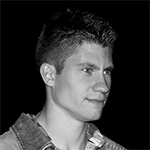
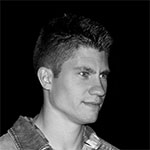
optimized profile pic; minimized javascript; removed dependency on jquery to set height of home section

diff --git a/styles/styles.css b/styles/styles.css
@@ -1,1 +1,1 @@
-/*! normalize.css v3.0.1 | MIT License | git.io/normalize */html{font-family:sans-serif;-ms-text-size-adjust:100%;-webkit-text-size-adjust:100%}body{margin:0}article,aside,details,figcaption,figure,footer,header,hgroup,main,nav,section,summary{display:block}audio,canvas,progress,video{display:inline-block;vertical-align:baseline}audio:not([controls]){display:none;height:0}[hidden],template{display:none}a{background:transparent}a:active,a:hover{outline:0}abbr[title]{border-bottom:1px dotted}b,strong{font-weight:bold}dfn{font-style:italic}h1{font-size:2em;margin:.67em 0}mark{background:#ff0;color:#000}small{font-size:80%}sub,sup{font-size:75%;line-height:0;position:relative;vertical-align:baseline}sup{top:-0.5em}sub{bottom:-0.25em}img{border:0}svg:not(:root){overflow:hidden}figure{margin:1em 40px}hr{-moz-box-sizing:content-box;box-sizing:content-box;height:0}pre{overflow:auto}code,kbd,pre,samp{font-family:monospace,monospace;font-size:1em}button,input,optgroup,select,textarea{color:inherit;font:inherit;margin:0}button{overflow:visible}button,select{text-transform:none}button,html input[type="button"]{-webkit-appearance:button;cursor:pointer}button[disabled],html input[disabled]{cursor:default}button input::-moz-focus-inner{border:0;padding:0}input{line-height:normal}input[type="reset"],input[type="submit"]{-webkit-appearance:button;cursor:pointer}input[type="checkbox"],input[type="radio"]{box-sizing:border-box;padding:0}input[type="number"]::-webkit-inner-spin-button,input[type="number"]::-webkit-outer-spin-button{height:auto}input[type="search"]{-webkit-appearance:textfield;-moz-box-sizing:content-box;-webkit-box-sizing:content-box;box-sizing:content-box}input[type="search"]::-webkit-search-cancel-button,input[type="search"]::-webkit-search-decoration{-webkit-appearance:none}fieldset{border:1px solid #c0c0c0;margin:0 2px;padding:.35em .625em .75em}legend{border:0;padding:0}textarea{overflow:auto}optgroup{font-weight:bold}table{border-collapse:collapse;border-spacing:0}td,th{padding:0}html{font-family:'Roboto','Helvetica Neue','Helvetica','Arial','sans-serif';font-size:10px;font-weight:100;color:#FFF}html a{text-decoration:none;color:inherit}h1,h2,h3,h4,h5,h6,p{font-weight:100}h1{font-size:48px}@media only screen and (max-width: 639px),only screen and (max-width: 1023px){h1{font-size:24px}}h2{font-size:40px}@media only screen and (max-width: 639px),only screen and (max-width: 1023px){h2{font-size:20px}}h3{font-size:31px}@media only screen and (max-width: 639px),only screen and (max-width: 1023px){h3{font-size:19px}}h4{font-size:25px}@media only screen and (max-width: 639px),only screen and (max-width: 1023px){h4{font-size:18px}}h5{font-size:20px}@media only screen and (max-width: 639px),only screen and (max-width: 1023px){h5{font-size:17px}}h6{font-size:16px}.container{padding:0 10%}@media only screen and (max-width: 639px){.container{padding:0 15px}}.main-text{width:57.6rem;font-size:1.6rem;text-align:center;line-height:2.5rem;margin:auto}@media only screen and (max-width: 639px){.main-text{width:100%}}.flat-button{background:none;outline:none;border:none;color:#448AFF;font-weight:700;font-size:1.4rem;padding:.75rem}.flat-button:hover{background:rgba(0,0,0,0.1)}.raised-button{background:#448AFF;color:#FFF;border:none;outline:none;border-radius:2px;height:3.6rem;font-size:1.4rem;padding:0 1.6rem;font-weight:500;line-height:3.6rem;box-shadow:0 2px 2px 0 rgba(0,0,0,0.14),0 3px 1px -2px rgba(0,0,0,0.2),0 1px 5px 0 rgba(0,0,0,0.12)}.underline{text-decoration:underline}.end{height:4.5rem}.md-modal{position:fixed;top:50%;left:50%;width:50%;max-width:60rem;min-width:35rem;height:auto;z-index:10;visibility:hidden;backface-visibility:hidden;transform:translateX(-50%) translateY(-50%);background:#FFF;color:#333;border-radius:2px}@media only screen and (max-width: 639px){.md-modal{width:100%}}.md-show{visibility:visible}.md-overlay{position:fixed;width:100%;height:100%;visibility:hidden;top:0;left:0;z-index:9;opacity:0;background:rgba(0,0,0,0.6);transition:all .3s}.md-show~.md-overlay{opacity:1;visibility:visible}.md-close{outline:none;border:none;background:none;position:absolute;right:0;bottom:0}.md-trigger{cursor:pointer}#main-menu{position:fixed;width:100%;margin:0 0 3rem;z-index:5;padding:1rem 0 0;background:rgba(0,0,0,0.8)}@media only screen and (max-width: 639px){#main-menu{padding:1rem 0}}#main-menu ul{list-style:none;display:flex;font-size:1.4rem;margin-top:0;padding:0}@media only screen and (max-width: 639px){#main-menu ul{padding:0;transition:all .25s;display:none}}#main-menu ul li{display:inline;margin:auto}@media only screen and (max-width: 639px){#main-menu ul li{display:block;line-height:3rem;background:rgba(224,224,224,0.2)}#main-menu ul li:not(:first-child){border-top:1px rgba(182,182,182,0.2) solid}}#main-menu ul li a{border-bottom:2px solid transparent;padding:.5rem;transition:.25s}#main-menu ul li a:hover,#main-menu ul li a.active{border-color:#FFF}@media only screen and (max-width: 639px){#main-menu ul li a{border:none}}@media only screen and (max-width: 639px){#main-menu.open ul{display:block}}#main-menu #menu-icon{display:none}@media only screen and (max-width: 639px){#main-menu #menu-icon{display:inline-block}}#home{width:100%;min-height:50rem;background-size:cover;background:linear-gradient(rgba(0,0,0,0.5), rgba(0,0,0,0.5)),url('union_station_desktop.jpg') center bottom no-repeat;padding:1rem 0;display:flex;justify-content:center;flex-direction:column}@media only screen and (max-width: 1023px){#home{background:linear-gradient(rgba(0,0,0,0.5), rgba(0,0,0,0.5)),url('union_station_tablet.jpg') center bottom no-repeat;background-size:cover}}@media only screen and (max-width: 639px){#home{background:linear-gradient(rgba(0,0,0,0.5), rgba(0,0,0,0.5)),url('union_station_mobile.jpg') center bottom no-repeat;background-size:cover}}#home .title{text-align:center;margin:3rem 0 3rem}#home .profile-pic{width:150px;height:150px;border-radius:75px;background:url('profile_pic.jpg') no-repeat;background-size:contain;margin:auto}#home .social{width:15rem;margin:auto;display:flex}#home .social .social-icon{display:inline-block;margin:1rem auto}#home .social .social-icon .zmdi-twitter:hover{color:#00ACED}#home .social .social-icon .zmdi-linkedin:hover{color:#0077B5}#home .social .social-icon .zmdi-github:hover{color:#4078C0}#home .introduction{margin:3rem auto 0}#projects{width:100%;min-height:50rem;background:linear-gradient(rgba(0,0,0,0.5), rgba(0,0,0,0.5)),url('muskoka_lake_desktop.jpg') center top no-repeat;background-size:cover}@media only screen and (max-width: 1023px){#projects{background:linear-gradient(rgba(0,0,0,0.5), rgba(0,0,0,0.5)),url('muskoka_lake_tablet.jpg') center top no-repeat;background-size:cover}}@media only screen and (max-width: 639px){#projects{background:linear-gradient(rgba(0,0,0,0.5), rgba(0,0,0,0.5)),url('muskoka_lake_mobile.jpg') center top no-repeat;background-size:cover}}#projects .title{text-align:center;padding:4.5rem 0 3rem}#projects .title h2{margin:0}#projects .project-container{display:flex;flex-wrap:wrap;padding-bottom:4.5rem}#projects .project-container .project-card{background:#FFF;width:35rem;height:25rem;border-radius:2px;display:inline-block;margin:2rem auto}#projects .project-container .project-card:hover{box-shadow:0 0 3px #C8C8C8}#projects .project-container .project-card .image{height:18rem;width:100%;background-size:cover;position:relative}#projects .project-container .project-card .image .name{position:absolute;bottom:0;margin:1rem}#projects .project-container .project-card .description,#projects .project-container .project-card .technologies{font-weight:300;font-size:1.4rem;color:#666;display:flex;justify-content:center;flex-direction:column;padding-left:1rem}#projects .project-container .project-card .description span,#projects .project-container .project-card .technologies span{display:inline-block}#projects .project-container .project-card .description{height:4rem;border-bottom:1px solid rgba(0,0,0,0.1);box-sizing:border-box}#projects .project-container .project-card .technologies{height:3rem}#projects .project-container .project-card#hooli .image{background:linear-gradient(rgba(0,0,0,0.35), rgba(0,0,0,0.35)),url('projects/hooli_600_310.jpg') center no-repeat}#projects .project-container .project-card#fulkerson .image{background:linear-gradient(rgba(0,0,0,0.35), rgba(0,0,0,0.35)),url('projects/fulkerson_600_310.jpg') no-repeat;background-size:cover}#projects .project-container .project-card#guidebook .image{background:linear-gradient(rgba(0,0,0,0.35), rgba(0,0,0,0.35)),url('projects/guidebook_600_310.jpg') top right no-repeat}#projects .project-container .project-card#iris .image{background:linear-gradient(rgba(0,0,0,0.35), rgba(0,0,0,0.35)),url('projects/iris_600_310.jpg') center no-repeat}#projects .project-container .project-card#heit .image{background:linear-gradient(rgba(0,0,0,0.35), rgba(0,0,0,0.35)),url('projects/heit_600_310.jpg') center no-repeat}#projects .md-modal .content{max-height:45rem;overflow-y:auto}@media only screen and (max-width: 639px){#projects .md-modal .content{max-height:30rem}}#projects .md-modal .image{position:relative;height:15rem}#projects .md-modal .image .name{position:absolute;bottom:0;color:#FFF;margin:1rem}#projects .md-modal .description{padding:1rem;font-size:1.4rem}#projects .md-modal .description p{font-weight:400}#projects .md-modal .description p a{color:#448AFF}#projects .md-modal .actions{text-align:center;border-top:1px solid rgba(0,0,0,0.1);padding:1rem 0}#projects #fulkerson-modal .image{background:linear-gradient(rgba(0,0,0,0.5), rgba(0,0,0,0.5)),url('projects/fulkerson_600_310.jpg') center no-repeat}#projects #guidebook-modal .image{background:linear-gradient(rgba(0,0,0,0.5), rgba(0,0,0,0.5)),url('projects/guidebook_600_310.jpg') top right no-repeat}#projects #iris-modal .image{background:linear-gradient(rgba(0,0,0,0.5), rgba(0,0,0,0.5)),url('projects/iris_600_310.jpg') center no-repeat}#projects #hooli-modal .image{background:linear-gradient(rgba(0,0,0,0.5), rgba(0,0,0,0.5)),url('projects/hooli_600_310.jpg') center no-repeat}#projects #heit-modal .image{background:linear-gradient(rgba(0,0,0,0.5), rgba(0,0,0,0.5)),url('projects/heit_600_310.jpg') top center no-repeat}#skills-contact{background:linear-gradient(rgba(0,0,0,0.5), rgba(0,0,0,0.5)),url('paracas_bench_desktop.jpg') center no-repeat;background-size:cover}@media only screen and (max-width: 1023px){#skills-contact{background:linear-gradient(rgba(0,0,0,0.5), rgba(0,0,0,0.5)),url('paracas_bench_tablet.jpg') center no-repeat;background-size:cover}}@media only screen and (max-width: 639px){#skills-contact{background:linear-gradient(rgba(0,0,0,0.5), rgba(0,0,0,0.5)),url('paracas_bench_mobile.jpg') center no-repeat;background-size:cover}}#skills{width:100%;min-height:50rem}#skills .title{text-align:center;padding:4.5rem 0 3rem}#skills .title h2{margin:0}#skills .skills-border{border-bottom:1px solid #FFF}#skills .resume{text-align:center;padding:3rem 0}#skills .resume .flat-button{font-size:1.8rem;color:#FFF}#contact{width:100%}#contact .title{text-align:center;padding:3rem 0}#contact .title h2{margin:0}
+/*! normalize.css v3.0.1 | MIT License | git.io/normalize */html{font-family:sans-serif;-ms-text-size-adjust:100%;-webkit-text-size-adjust:100%}body{margin:0}article,aside,details,figcaption,figure,footer,header,hgroup,main,nav,section,summary{display:block}audio,canvas,progress,video{display:inline-block;vertical-align:baseline}audio:not([controls]){display:none;height:0}[hidden],template{display:none}a{background:transparent}a:active,a:hover{outline:0}abbr[title]{border-bottom:1px dotted}b,strong{font-weight:bold}dfn{font-style:italic}h1{font-size:2em;margin:.67em 0}mark{background:#ff0;color:#000}small{font-size:80%}sub,sup{font-size:75%;line-height:0;position:relative;vertical-align:baseline}sup{top:-0.5em}sub{bottom:-0.25em}img{border:0}svg:not(:root){overflow:hidden}figure{margin:1em 40px}hr{-moz-box-sizing:content-box;box-sizing:content-box;height:0}pre{overflow:auto}code,kbd,pre,samp{font-family:monospace,monospace;font-size:1em}button,input,optgroup,select,textarea{color:inherit;font:inherit;margin:0}button{overflow:visible}button,select{text-transform:none}button,html input[type="button"]{-webkit-appearance:button;cursor:pointer}button[disabled],html input[disabled]{cursor:default}button input::-moz-focus-inner{border:0;padding:0}input{line-height:normal}input[type="reset"],input[type="submit"]{-webkit-appearance:button;cursor:pointer}input[type="checkbox"],input[type="radio"]{box-sizing:border-box;padding:0}input[type="number"]::-webkit-inner-spin-button,input[type="number"]::-webkit-outer-spin-button{height:auto}input[type="search"]{-webkit-appearance:textfield;-moz-box-sizing:content-box;-webkit-box-sizing:content-box;box-sizing:content-box}input[type="search"]::-webkit-search-cancel-button,input[type="search"]::-webkit-search-decoration{-webkit-appearance:none}fieldset{border:1px solid #c0c0c0;margin:0 2px;padding:.35em .625em .75em}legend{border:0;padding:0}textarea{overflow:auto}optgroup{font-weight:bold}table{border-collapse:collapse;border-spacing:0}td,th{padding:0}html{font-family:'Roboto','Helvetica Neue','Helvetica','Arial','sans-serif';font-size:10px;font-weight:100;color:#FFF}html a{text-decoration:none;color:inherit}h1,h2,h3,h4,h5,h6,p{font-weight:100}h1{font-size:48px}@media only screen and (max-width: 639px),only screen and (max-width: 1023px){h1{font-size:24px}}h2{font-size:40px}@media only screen and (max-width: 639px),only screen and (max-width: 1023px){h2{font-size:20px}}h3{font-size:31px}@media only screen and (max-width: 639px),only screen and (max-width: 1023px){h3{font-size:19px}}h4{font-size:25px}@media only screen and (max-width: 639px),only screen and (max-width: 1023px){h4{font-size:18px}}h5{font-size:20px}@media only screen and (max-width: 639px),only screen and (max-width: 1023px){h5{font-size:17px}}h6{font-size:16px}.container{padding:0 10%}@media only screen and (max-width: 639px){.container{padding:0 15px}}.main-text{width:57.6rem;font-size:1.6rem;text-align:center;line-height:2.5rem;margin:auto}@media only screen and (max-width: 639px){.main-text{width:100%}}.flat-button{background:none;outline:none;border:none;color:#448AFF;font-weight:700;font-size:1.4rem;padding:.75rem}.flat-button:hover{background:rgba(0,0,0,0.1)}.raised-button{background:#448AFF;color:#FFF;border:none;outline:none;border-radius:2px;height:3.6rem;font-size:1.4rem;padding:0 1.6rem;font-weight:500;line-height:3.6rem;box-shadow:0 2px 2px 0 rgba(0,0,0,0.14),0 3px 1px -2px rgba(0,0,0,0.2),0 1px 5px 0 rgba(0,0,0,0.12)}.underline{text-decoration:underline}.end{height:4.5rem}.md-modal{position:fixed;top:50%;left:50%;width:50%;max-width:60rem;min-width:35rem;height:auto;z-index:10;visibility:hidden;backface-visibility:hidden;transform:translateX(-50%) translateY(-50%);background:#FFF;color:#333;border-radius:2px}@media only screen and (max-width: 639px){.md-modal{width:100%}}.md-show{visibility:visible}.md-overlay{position:fixed;width:100%;height:100%;visibility:hidden;top:0;left:0;z-index:9;opacity:0;background:rgba(0,0,0,0.6);transition:all .3s}.md-show~.md-overlay{opacity:1;visibility:visible}.md-close{outline:none;border:none;background:none;position:absolute;right:0;bottom:0}.md-trigger{cursor:pointer}#main-menu{position:fixed;width:100%;margin:0 0 3rem;z-index:5;padding:1rem 0 0;background:rgba(0,0,0,0.8)}@media only screen and (max-width: 639px){#main-menu{padding:1rem 0}}#main-menu ul{list-style:none;display:flex;font-size:1.4rem;margin-top:0;padding:0}@media only screen and (max-width: 639px){#main-menu ul{padding:0;transition:all .25s;display:none}}#main-menu ul li{display:inline;margin:auto}@media only screen and (max-width: 639px){#main-menu ul li{display:block;line-height:3rem;background:rgba(224,224,224,0.2)}#main-menu ul li:not(:first-child){border-top:1px rgba(182,182,182,0.2) solid}}#main-menu ul li a{border-bottom:2px solid transparent;padding:.5rem;transition:.25s}#main-menu ul li a:hover,#main-menu ul li a.active{border-color:#FFF}@media only screen and (max-width: 639px){#main-menu ul li a{border:none}}@media only screen and (max-width: 639px){#main-menu.open ul{display:block}}#main-menu #menu-icon{display:none}@media only screen and (max-width: 639px){#main-menu #menu-icon{display:inline-block}}#home{width:100%;background-size:cover;background:linear-gradient(rgba(0,0,0,0.5), rgba(0,0,0,0.5)),url('union_station_desktop.jpg') center bottom no-repeat;padding:1rem 0;display:flex;justify-content:center;flex-direction:column}@media only screen and (max-width: 1023px){#home{background:linear-gradient(rgba(0,0,0,0.5), rgba(0,0,0,0.5)),url('union_station_tablet.jpg') center bottom no-repeat;background-size:cover}}@media only screen and (max-width: 639px){#home{background:linear-gradient(rgba(0,0,0,0.5), rgba(0,0,0,0.5)),url('union_station_mobile.jpg') center bottom no-repeat;background-size:cover}}#home .title{text-align:center;margin:3rem 0 3rem}#home .profile-pic{width:150px;height:150px;border-radius:75px;background:url('profile_pic.jpg') no-repeat;background-size:contain;margin:auto}#home .social{width:15rem;margin:auto;display:flex}#home .social .social-icon{display:inline-block;margin:1rem auto}#home .social .social-icon .zmdi-twitter:hover{color:#00ACED}#home .social .social-icon .zmdi-linkedin:hover{color:#0077B5}#home .social .social-icon .zmdi-github:hover{color:#4078C0}#home .introduction{margin:3rem auto 0}#projects{width:100%;min-height:50rem;background:linear-gradient(rgba(0,0,0,0.5), rgba(0,0,0,0.5)),url('muskoka_lake_desktop.jpg') center top no-repeat;background-size:cover}@media only screen and (max-width: 1023px){#projects{background:linear-gradient(rgba(0,0,0,0.5), rgba(0,0,0,0.5)),url('muskoka_lake_tablet.jpg') center top no-repeat;background-size:cover}}@media only screen and (max-width: 639px){#projects{background:linear-gradient(rgba(0,0,0,0.5), rgba(0,0,0,0.5)),url('muskoka_lake_mobile.jpg') center top no-repeat;background-size:cover}}#projects .title{text-align:center;padding:4.5rem 0 3rem}#projects .title h2{margin:0}#projects .project-container{display:flex;flex-wrap:wrap;padding-bottom:4.5rem}#projects .project-container .project-card{background:#FFF;width:35rem;height:25rem;border-radius:2px;display:inline-block;margin:2rem auto}#projects .project-container .project-card:hover{box-shadow:0 0 3px #C8C8C8}#projects .project-container .project-card .image{height:18rem;width:100%;background-size:cover;position:relative}#projects .project-container .project-card .image .name{position:absolute;bottom:0;margin:1rem}#projects .project-container .project-card .description,#projects .project-container .project-card .technologies{font-weight:300;font-size:1.4rem;color:#666;display:flex;justify-content:center;flex-direction:column;padding-left:1rem}#projects .project-container .project-card .description span,#projects .project-container .project-card .technologies span{display:inline-block}#projects .project-container .project-card .description{height:4rem;border-bottom:1px solid rgba(0,0,0,0.1);box-sizing:border-box}#projects .project-container .project-card .technologies{height:3rem}#projects .project-container .project-card#hooli .image{background:linear-gradient(rgba(0,0,0,0.35), rgba(0,0,0,0.35)),url('projects/hooli_600_310.jpg') center no-repeat}#projects .project-container .project-card#fulkerson .image{background:linear-gradient(rgba(0,0,0,0.35), rgba(0,0,0,0.35)),url('projects/fulkerson_600_310.jpg') no-repeat;background-size:cover}#projects .project-container .project-card#guidebook .image{background:linear-gradient(rgba(0,0,0,0.35), rgba(0,0,0,0.35)),url('projects/guidebook_600_310.jpg') top right no-repeat}#projects .project-container .project-card#iris .image{background:linear-gradient(rgba(0,0,0,0.35), rgba(0,0,0,0.35)),url('projects/iris_600_310.jpg') center no-repeat}#projects .project-container .project-card#heit .image{background:linear-gradient(rgba(0,0,0,0.35), rgba(0,0,0,0.35)),url('projects/heit_600_310.jpg') center no-repeat}#projects .md-modal .content{max-height:45rem;overflow-y:auto}@media only screen and (max-width: 639px){#projects .md-modal .content{max-height:30rem}}#projects .md-modal .image{position:relative;height:15rem}#projects .md-modal .image .name{position:absolute;bottom:0;color:#FFF;margin:1rem}#projects .md-modal .description{padding:1rem;font-size:1.4rem}#projects .md-modal .description p{font-weight:400}#projects .md-modal .description p a{color:#448AFF}#projects .md-modal .actions{text-align:center;border-top:1px solid rgba(0,0,0,0.1);padding:1rem 0}#projects #fulkerson-modal .image{background:linear-gradient(rgba(0,0,0,0.5), rgba(0,0,0,0.5)),url('projects/fulkerson_600_310.jpg') center no-repeat}#projects #guidebook-modal .image{background:linear-gradient(rgba(0,0,0,0.5), rgba(0,0,0,0.5)),url('projects/guidebook_600_310.jpg') top right no-repeat}#projects #iris-modal .image{background:linear-gradient(rgba(0,0,0,0.5), rgba(0,0,0,0.5)),url('projects/iris_600_310.jpg') center no-repeat}#projects #hooli-modal .image{background:linear-gradient(rgba(0,0,0,0.5), rgba(0,0,0,0.5)),url('projects/hooli_600_310.jpg') center no-repeat}#projects #heit-modal .image{background:linear-gradient(rgba(0,0,0,0.5), rgba(0,0,0,0.5)),url('projects/heit_600_310.jpg') top center no-repeat}#skills-contact{background:linear-gradient(rgba(0,0,0,0.5), rgba(0,0,0,0.5)),url('paracas_bench_desktop.jpg') center no-repeat;background-size:cover}@media only screen and (max-width: 1023px){#skills-contact{background:linear-gradient(rgba(0,0,0,0.5), rgba(0,0,0,0.5)),url('paracas_bench_tablet.jpg') center no-repeat;background-size:cover}}@media only screen and (max-width: 639px){#skills-contact{background:linear-gradient(rgba(0,0,0,0.5), rgba(0,0,0,0.5)),url('paracas_bench_mobile.jpg') center no-repeat;background-size:cover}}#skills{width:100%;min-height:50rem}#skills .title{text-align:center;padding:4.5rem 0 3rem}#skills .title h2{margin:0}#skills .skills-border{border-bottom:1px solid #FFF}#skills .resume{text-align:center;padding:3rem 0}#skills .resume .flat-button{font-size:1.8rem;color:#FFF}#contact{width:100%}#contact .title{text-align:center;padding:3rem 0}#contact .title h2{margin:0}

diff --git a/js/app.min.js b/js/app.min.js
@@ -1,0 +1,1 @@
+if($(window).width()<640){$("#menu-icon").on("touchend",function(){$("#main-menu").toggleClass("open")});$("#main-menu li a").on("touchend",function(evt){evt.preventDefault();$("#main-menu").toggleClass("open");var anchor=$(this).attr("href");$("html, body").animate({scrollTop:$(anchor).position().top},500)})}else{$("#main-menu li a").on("touchend click",function(evt){evt.preventDefault();var anchor=$(this).attr("href");if(anchor==="#skills"){if($("#skills-contact").height()<=$(window).height()){$("html, body").animate({scrollTop:$(document).height()-$(window).height()-20},500)}else{$("html, body").animate({scrollTop:$(anchor).position().top},500)}}else{$("html, body").animate({scrollTop:$(anchor).position().top},500)}})}var nav_boundary_amount=$(window).height()/3;$(document).scroll(function(){if($(window).scrollTop()===$(document).height()-$(window).height()){$("section").each(function(){$('nav ul li a[href="#'+$(this).attr("id")+'"]').removeClass("active")});$('nav ul li a[href="#contact"]').addClass("active")}else{$("section").each(function(){if($(window).scrollTop()>=$(this).position().top-nav_boundary_amount&&$(window).scrollTop()<$(this).position().top+$(this).height()-nav_boundary_amount){$('nav ul li a[href="#'+$(this).attr("id")+'"]').addClass("active")}else{$('nav ul li a[href="#'+$(this).attr("id")+'"]').removeClass("active")}})}});$(".md-trigger").each(function(){$(this).on("touchend click",function(){var modal_id="#"+$(this).attr("data-modal")+"-modal";$(modal_id).addClass("md-show")})});$(".md-close, .md-overlay").each(function(){$(this).on("touchend click",function(){$(".md-modal").each(function(){$(this).removeClass("md-show")})})});

diff --git a/js/app.js b/js/app.js
@@ -1,7 +1,7 @@
 // set min-height of home section to full window height
-$('#home').css('min-height', function () {
-  return $(window).height();
-});
+// $('#home').css('min-height', function () {
+//   return $(window).height();
+// });
 
 // open/close mobile menu
 if ($(window).width() < 640) {

diff --git a/js/set_height.js b/js/set_height.js
@@ -1,0 +1,7 @@
+// set min-height of home section to full window height
+var w = window,
+  d = document,
+  e = d.documentElement,
+  g = d.getElementsByTagName('body')[0];
+
+document.getElementById('home').style.minHeight = (w.innerHeight || e.clientHeight || g.clientHeight) + "px";

diff --git a/js/set_height.min.js b/js/set_height.min.js
@@ -1,0 +1,1 @@
+var w=window,d=document,e=d.documentElement,g=d.getElementsByTagName("body")[0];document.getElementById("home").style.minHeight=(w.innerHeight||e.clientHeight||g.clientHeight)+"px";

diff --git a/styles/home.less b/styles/home.less
@@ -1,6 +1,6 @@
 #home {
   width: 100%;
-  min-height: 50rem;
+  //min-height: 50rem;
   background-size: cover;
   background: linear-gradient(
           rgba(0, 0, 0, 0.5),
